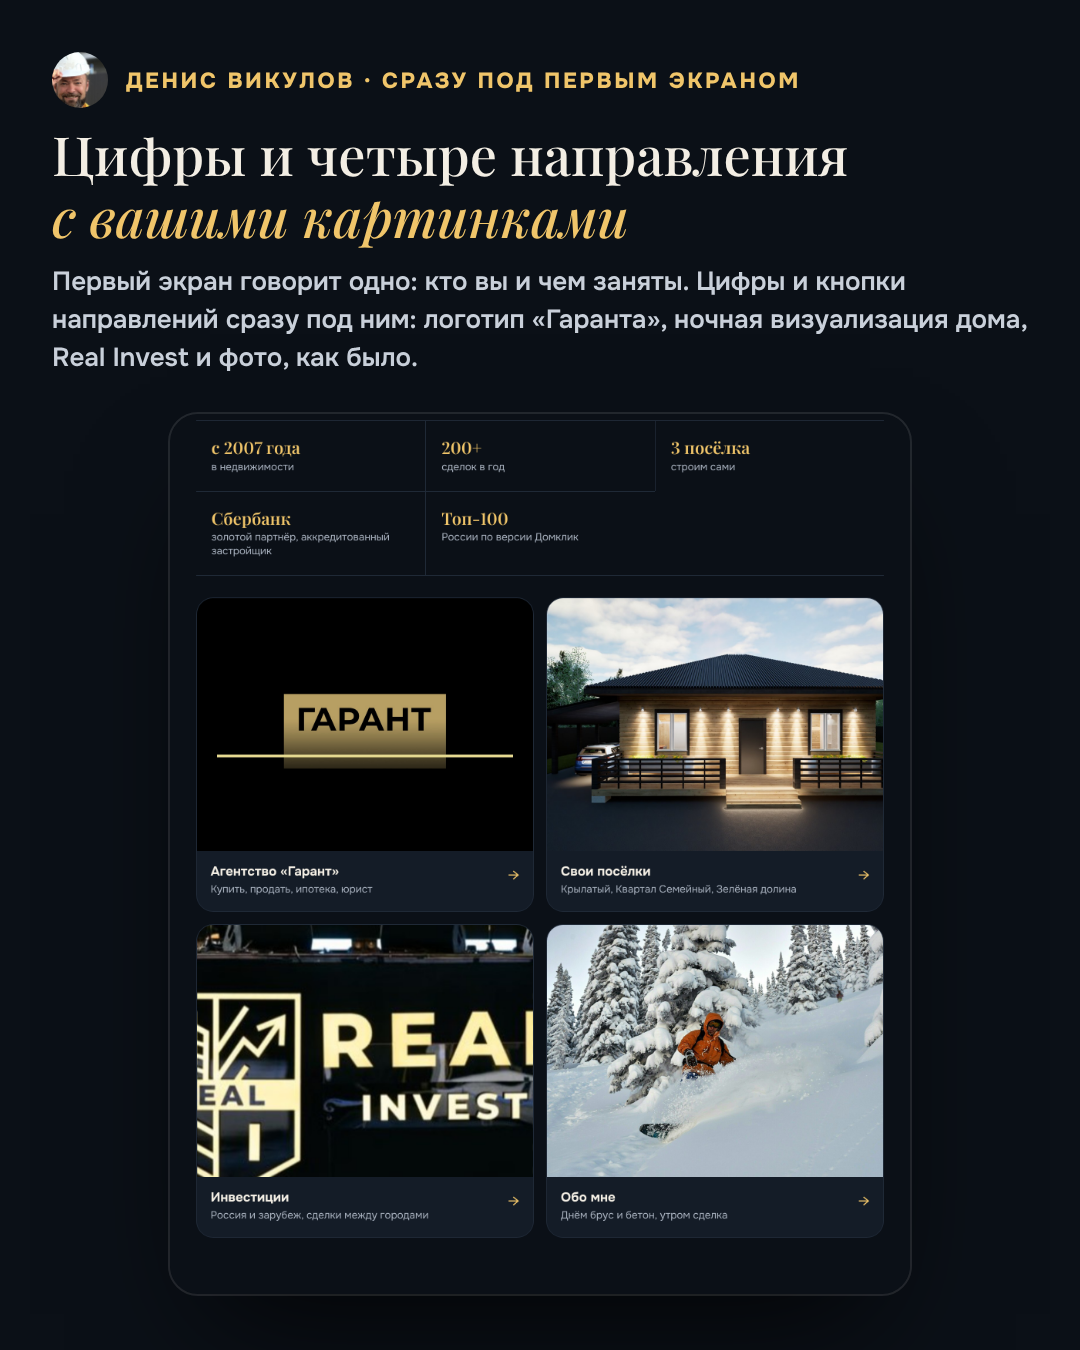
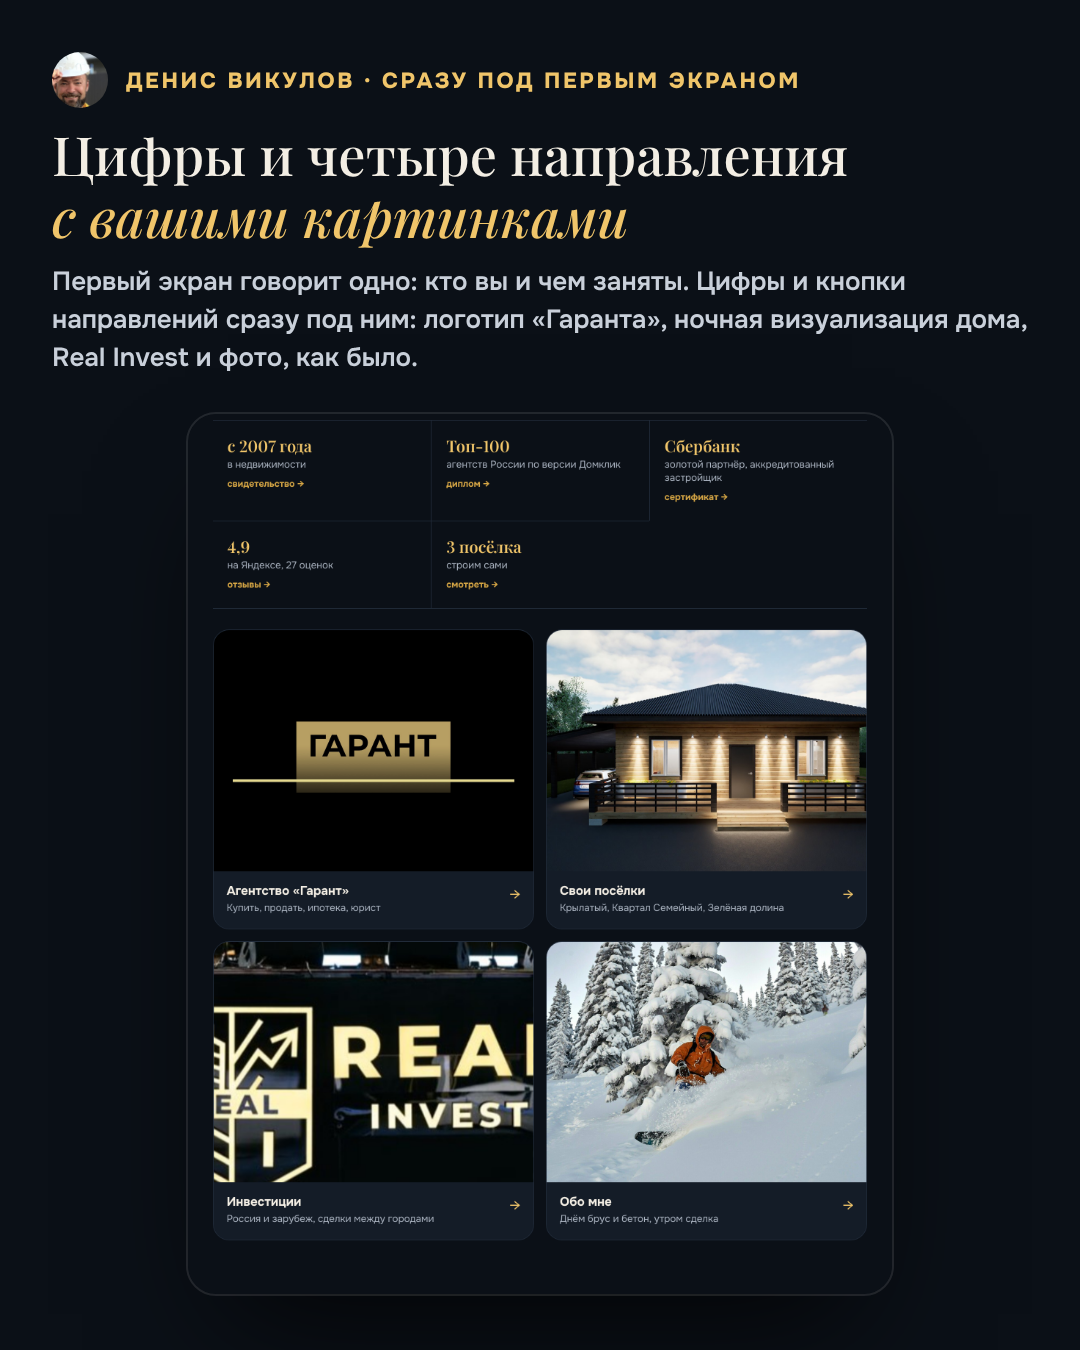
Денис Викулов: вместо числа сделок 4,9 на Яндексе, цифры ведут к дипломам
Claude-Session: https://claude.ai/code/session_01MqcZMF1QZGroxt2dRB4nWR

diff --git a/denis-vikulov/index.html b/denis-vikulov/index.html
@@ -79,8 +79,11 @@ nav a:hover{color:var(--gold-hi)}
 /* сразу под первым экраном: цифры и четыре направления */
 .napr{padding-block:8px 72px}
 .stats{display:grid;grid-template-columns:repeat(5,minmax(0,1fr));border-block:1px solid var(--line);margin-bottom:28px}
-.stats div{padding:22px 20px;display:grid;gap:4px;align-content:start}
-.stats div+div{border-left:1px solid var(--line)}
+.stats a{padding:22px 20px;display:grid;gap:4px;align-content:start;text-decoration:none;transition:background .15s}
+.stats a:hover{background:var(--surface)}
+.stats i{font-style:normal;font-size:12.5px;font-weight:700;color:var(--gold);margin-top:4px}
+.stats i::after{content:" →"}
+.stats a+a{border-left:1px solid var(--line)}
 .stats b{font-family:var(--serif);font-weight:600;font-variant-numeric:lining-nums;font-size:clamp(22px,2.1vw,30px);line-height:1.1;color:var(--gold-hi)}
 .stats span{font-size:13.5px;color:var(--muted);line-height:1.35}
 .dirs{display:grid;grid-template-columns:repeat(4,minmax(0,1fr));gap:16px}
@@ -93,7 +96,7 @@ nav a:hover{color:var(--gold-hi)}
 .dir small{grid-column:1;font-size:13.5px;color:var(--muted);line-height:1.4}
 .dir .ar{grid-row:1/span 2;grid-column:2;color:var(--gold-hi);font-size:20px}
 
-@media (max-width:1100px){.dirs{grid-template-columns:repeat(2,minmax(0,1fr))}.stats{grid-template-columns:repeat(3,minmax(0,1fr))}.stats div:nth-child(4){border-left:0}.stats div:nth-child(n+4){border-top:1px solid var(--line)}}
+@media (max-width:1100px){.dirs{grid-template-columns:repeat(2,minmax(0,1fr))}.stats{grid-template-columns:repeat(3,minmax(0,1fr))}.stats a:nth-child(4){border-left:0}.stats a:nth-child(n+4){border-top:1px solid var(--line)}}
 @media (max-width:960px){
   .stage{margin-top:-62px;padding-top:62px}
   .hero{grid-template-columns:1fr;min-height:0;padding-block:330px 36px}
@@ -109,11 +112,11 @@ nav a:hover{color:var(--gold-hi)}
   .cta .btn{width:100%}
   .cta small{text-align:center}
   .stats{grid-template-columns:repeat(2,minmax(0,1fr))}
-  .stats div{padding:16px 12px}
-  .stats div:nth-child(n){border-left:0;border-top:1px solid var(--line)}
-  .stats div:nth-child(-n+2){border-top:0}
-  .stats div:nth-child(even){border-left:1px solid var(--line)}
-  .stats div:last-child{grid-column:span 2}
+  .stats a{padding:16px 12px}
+  .stats a:nth-child(n){border-left:0;border-top:1px solid var(--line)}
+  .stats a:nth-child(-n+2){border-top:0}
+  .stats a:nth-child(even){border-left:1px solid var(--line)}
+  .stats a:last-child{grid-column:span 2}
   .dirs{gap:10px}
   .dir{border-radius:16px}
   .dir .pic{aspect-ratio:1/1}
@@ -227,11 +230,11 @@ dialog p{color:var(--muted);font-size:14.5px;margin-bottom:8px}
 
   <div class="wrap napr" id="vhody">
     <div class="stats">
-      <div><b>с 2007 года</b><span>в&nbsp;недвижимости</span></div>
-      <div><b>200+</b><span>сделок в&nbsp;год</span></div>
-      <div><b>3 посёлка</b><span>строим сами</span></div>
-      <div><b>Сбербанк</b><span>золотой партнёр, аккредитованный застройщик</span></div>
-      <div><b>Топ-100</b><span>России по&nbsp;версии Домклик</span></div>
+      <a href="#struktura"><b>с 2007 года</b><span>в&nbsp;недвижимости</span><i>свидетельство</i></a>
+      <a href="#struktura"><b>Топ-100</b><span>агентств России по&nbsp;версии Домклик</span><i>диплом</i></a>
+      <a href="#struktura"><b>Сбербанк</b><span>золотой партнёр, аккредитованный застройщик</span><i>сертификат</i></a>
+      <a href="#struktura"><b>4,9</b><span>на&nbsp;Яндексе, 27 оценок</span><i>отзывы</i></a>
+      <a href="#struktura"><b>3 посёлка</b><span>строим сами</span><i>смотреть</i></a>
     </div>
     <div class="dirs">
       <a class="dir" href="#struktura"><span class="pic garant"></span><span class="txt"><b>Агентство «Гарант»</b><small>Купить, продать, ипотека, юрист</small><span class="ar">→</span></span></a>
@@ -250,7 +253,7 @@ dialog p{color:var(--muted);font-size:14.5px;margin-bottom:8px}
       </div>
       <div class="blocks">
         <div class="blk"><span class="no">01</span><h3>Главный экран</h3><p>Крупное фото на&nbsp;стройке, кто вы и&nbsp;чем заняты, одна кнопка «Написать Денису». Сразу под ним цифры и&nbsp;четыре направления с&nbsp;вашими картинками.</p></div>
-        <div class="blk"><span class="no">02</span><h3>Цифры и&nbsp;доверие</h3><p>С&nbsp;2007 года, 200+ сделок в&nbsp;год, аккредитованный застройщик и&nbsp;золотой партнёр Сбербанка, топ-100 Домклик, дипломы.</p></div>
+        <div class="blk"><span class="no">02</span><h3>Цифры и&nbsp;доверие</h3><p>С&nbsp;2007 года, аккредитованный застройщик и&nbsp;золотой партнёр Сбербанка, топ-100 Домклик, дипломы.</p></div>
         <div class="blk"><span class="no">03</span><h3>Агентство «Гарант»</h3><p>Покупка, продажа, льготные ипотеки (семейная, сельская, IT), маткапитал, юрист и&nbsp;суд. Команда и&nbsp;отзывы с&nbsp;Яндекса.</p></div>
         <div class="blk"><div class="pic" style="background-image:url(img/dom-render.jpg)"></div><span class="no">04</span><h3>Строим малоэтажную Россию</h3><p>Три посёлка карточками: фото, площадь домов, ипотека, кнопки «Презентация» и&nbsp;«Видео», плейлист «Обзоры домов».</p></div>
         <div class="blk"><span class="no">05</span><h3>Как купить дом</h3><p>Пять шагов через эскроу-счёт: деньги лежат в&nbsp;банке, пока дом не&nbsp;построен и&nbsp;не&nbsp;поставлен на&nbsp;кадастр.</p></div>

diff --git a/denis-vikulov/struktura.html b/denis-vikulov/struktura.html
@@ -77,9 +77,9 @@ h1 em{font-style:normal;color:var(--gold-hi)}
         <div style="display:grid;gap:3px;align-content:start"><span class="ln w" style="width:92%;height:7px"></span><span class="scr" style="font-size:12.5px">живи по своим правилам</span><div style="display:grid;grid-template-columns:repeat(4,minmax(0,1fr));gap:2px;margin-top:3px"><span class="pl" style="height:16px"></span><span class="pl" style="height:16px"></span><span class="pl" style="height:16px"></span><span class="pl" style="height:16px"></span></div></div>
         <div class="ph" style="background-image:url(img/denis-kaska.jpg);background-position:30% 25%"></div>
       </div></div>
-    <div class="r"><div class="t"><span class="no">02</span><h3>Цифры и&nbsp;направления</h3><p>2007, 200+ сделок, Сбербанк, топ-100. Ниже четыре кнопки с&nbsp;вашими картинками</p></div>
+    <div class="r"><div class="t"><span class="no">02</span><h3>Цифры и&nbsp;направления</h3><p>2007, топ-100, Сбербанк, 4,9. Нажал и&nbsp;видишь диплом. Ниже четыре кнопки с&nbsp;вашими картинками</p></div>
       <div class="v" style="grid-template-columns:repeat(2,minmax(0,1fr));gap:7px 8px;align-content:center">
-        <div class="st"><b>2007</b><i></i></div><div class="st"><b>200+</b><i></i></div><div class="st"><b>Сбер</b><i></i></div><div class="st"><b>Топ-100</b><i></i></div>
+        <div class="st"><b>2007</b><i></i></div><div class="st"><b>4,9</b><i></i></div><div class="st"><b>Сбер</b><i></i></div><div class="st"><b>Топ-100</b><i></i></div>
       </div></div>
     <div class="r"><div class="t"><span class="no">03</span><h3>Агентство «Гарант»</h3><p>Купить, продать, льготная ипотека, юрист и&nbsp;суд. Команда и&nbsp;отзывы с&nbsp;оценкой 4,9</p></div>
       <div class="v" style="gap:5px">
@@ -158,7 +158,7 @@ h1 em{font-style:normal;color:var(--gold-hi)}
     <div class="pts">
       <div><b>Кто пишет</b><span>покупатель, продавец, инвестор или вопрос к&nbsp;юристу</span></div>
       <div><b>Одна ссылка</b><span>в&nbsp;описание видео и&nbsp;профили вместо пяти</span></div>
-      <div><b>Ваши цифры</b><span>200+ сделок и&nbsp;Сбербанк видны до&nbsp;первого звонка</span></div>
+      <div><b>Ваши цифры</b><span>дипломы и&nbsp;Сбербанк видны до&nbsp;первого звонка</span></div>
     </div>
   </div>
   <div class="foot"><span>Набросок для&nbsp;<b>Дениса Викулова</b> · Шелехов</span><span>FOR.MI</span></div>
